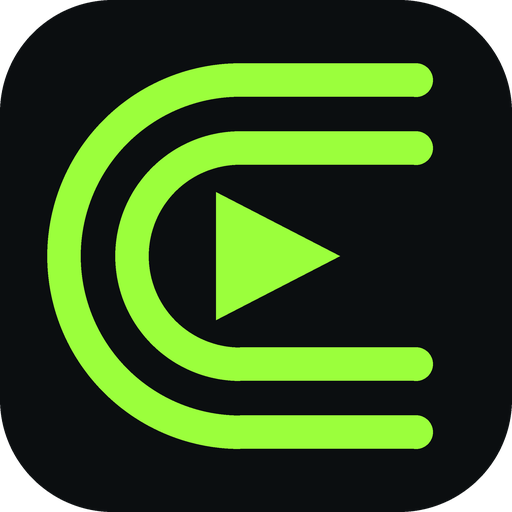
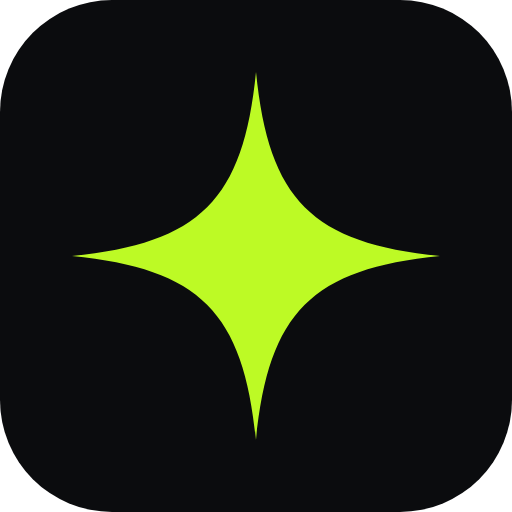
Campaignify wordmark + matching dark and light themes
The chosen wordmark (lime spark over the i, play in the g) traced to SVG and used in
the sidebar and sign-in; spark app icon and favicons; black/white palette with the
logo's lime #BDFA25; light theme from the system setting or a Theme toggle.

Claude-Session: https://claude.ai/code/session_013TZGr8RSMficF1wUo2tCvz

diff --git a/static/style.css b/static/style.css
@@ -1,33 +1,67 @@
 :root{
-  --bg:#0B0E10; --bg2:#0F1316; --panel:#12171B; --card:#171E23; --line:rgba(170,210,190,.13);
-  --ink:#F2F5F3; --muted:#9AA6A0; --dim:#6E7A74;
-  --gold:#9BFF3C; --gold2:#C6FF8F; --blue:#5BD3FF; --blue2:#1795C9;
+  /* Campaignify: black/white wordmark with a lime spark. Dark is the default theme. */
+  --accent:#BDFA25; --accent-rgb:189,250,37; --on-accent:#0B0C0E;
+  --bg:#0B0C0E; --bg2:#101114; --panel:#141519; --card:#1A1C21; --line:rgba(255,255,255,.09);
+  --ink:#F5F6F2; --muted:#A0A3A9; --dim:#6F737A;
+  --gold:var(--accent); --gold2:#D7FF7A; --link:#C9FF52; --blue:#7FD6FF; --blue-rgb:127,214,255; --blue2:#1795C9;
   --ok:#3DD68C; --bad:#FF6B6B; --amber:#F8C13E;
+  --hover:rgba(255,255,255,.05); --field:rgba(255,255,255,.035); --chipbg:rgba(255,255,255,.03);
+  --side-bg:linear-gradient(180deg,#101114,#0B0C0E);
+  --panel-bg:linear-gradient(180deg,rgba(26,28,33,.85),rgba(20,21,25,.85));
+  --thumb-bg:#121317; --btn2:#1D1F24; --btn2-hover:#262930;
+  --glow:radial-gradient(1100px 560px at 75% -12%,rgba(var(--accent-rgb),.10),transparent 60%);
+  --shadow:0 18px 40px -18px rgba(0,0,0,.8);
   --r:16px; --display:"Space Grotesk",system-ui,sans-serif; --body:"Inter",system-ui,sans-serif;
+  color-scheme:dark;
+}
+:root[data-theme=light]{
+  --bg:#F6F7F4; --bg2:#FFFFFF; --panel:#FFFFFF; --card:#FFFFFF; --line:rgba(11,12,14,.10);
+  --ink:#0B0C0E; --muted:#585C63; --dim:#80848B;
+  --gold2:#3F6B00; --link:#3F6B00; --blue:#0F7FB0; --blue-rgb:15,127,176;
+  --hover:rgba(11,12,14,.05); --field:#FFFFFF; --chipbg:#FFFFFF;
+  --side-bg:#FFFFFF;
+  --panel-bg:#FFFFFF;
+  --thumb-bg:#E9EBE6; --btn2:#EEF0EB; --btn2-hover:#E3E6DF;
+  --glow:radial-gradient(1100px 560px at 75% -12%,rgba(var(--accent-rgb),.22),transparent 60%);
+  --shadow:0 16px 36px -20px rgba(11,12,14,.35);
+  color-scheme:light;
+}
+@media (prefers-color-scheme: light){
+  :root:not([data-theme=dark]){
+    --bg:#F6F7F4; --bg2:#FFFFFF; --panel:#FFFFFF; --card:#FFFFFF; --line:rgba(11,12,14,.10);
+    --ink:#0B0C0E; --muted:#585C63; --dim:#80848B;
+    --gold2:#3F6B00; --link:#3F6B00; --blue:#0F7FB0; --blue-rgb:15,127,176;
+    --hover:rgba(11,12,14,.05); --field:#FFFFFF; --chipbg:#FFFFFF;
+    --side-bg:#FFFFFF; --panel-bg:#FFFFFF;
+    --thumb-bg:#E9EBE6; --btn2:#EEF0EB; --btn2-hover:#E3E6DF;
+    --glow:radial-gradient(1100px 560px at 75% -12%,rgba(var(--accent-rgb),.22),transparent 60%);
+    --shadow:0 16px 36px -20px rgba(11,12,14,.35);
+    color-scheme:light;
+  }
 }
 *{box-sizing:border-box}
 html,body{margin:0;background:var(--bg);color:var(--ink);font:15px/1.5 var(--body);-webkit-font-smoothing:antialiased}
-body{background:radial-gradient(1200px 600px at 70% -10%,rgba(23,149,201,.18),transparent 60%),radial-gradient(900px 500px at -10% 110%,rgba(155,255,60,.06),transparent 60%),var(--bg);min-height:100vh}
-a{color:var(--blue)}
+body{background:var(--glow),var(--bg);min-height:100vh}
+a{color:var(--link)}
 h1,h2,h3{font-family:var(--display);letter-spacing:-.02em;margin:0 0 .35em;font-weight:700}
 h1{font-size:44px;line-height:1.05} h2{font-size:22px} h3{font-size:16px}
-.gold{color:var(--gold)} .muted{color:var(--muted)} .dim{color:var(--dim)} .small{font-size:13px}
-.eyebrow{font:600 12px var(--body);letter-spacing:.14em;text-transform:uppercase;color:var(--blue);margin:0 0 10px}
+.gold{color:var(--gold2)} .muted{color:var(--muted)} .dim{color:var(--dim)} .small{font-size:13px}
+.eyebrow{font:600 12px var(--body);letter-spacing:.14em;text-transform:uppercase;color:var(--gold2);margin:0 0 10px}
 
 /* shell */
 .shell{display:grid;grid-template-columns:232px 1fr;min-height:100vh}
-.side{position:sticky;top:0;height:100vh;display:flex;flex-direction:column;gap:6px;padding:22px 14px;border-right:1px solid var(--line);background:linear-gradient(180deg,rgba(15,19,22,.9),rgba(11,14,16,.9))}
+.side{position:sticky;top:0;height:100vh;display:flex;flex-direction:column;gap:6px;padding:22px 14px;border-right:1px solid var(--line);background:var(--side-bg)}
 .logo{display:flex;align-items:center;gap:12px;color:var(--ink);text-decoration:none;padding:4px 10px 22px}
 .logo img{width:38px;height:38px}
 .logo b{display:block;font:700 19px var(--display)} .logo span{display:block;font-size:10px;letter-spacing:.14em;text-transform:uppercase;color:var(--muted)}
 .side a.nav{display:flex;align-items:center;gap:12px;padding:10px 14px;border-radius:12px;color:var(--muted);text-decoration:none;font-weight:600}
 .side a.nav svg{width:18px;height:18px;flex:none}
-.side a.nav:hover{color:var(--ink);background:rgba(255,255,255,.04)}
-.side a.nav.on{color:var(--ink);background:linear-gradient(90deg,rgba(91,211,255,.18),rgba(91,211,255,.06));box-shadow:inset 0 0 0 1px rgba(91,211,255,.25)}
-.side a.nav.on svg{color:var(--gold)}
+.side a.nav:hover{color:var(--ink);background:var(--hover)}
+.side a.nav.on{color:var(--ink);background:rgba(var(--accent-rgb),.12);box-shadow:inset 0 0 0 1px rgba(var(--accent-rgb),.35)}
+.side a.nav.on svg{color:var(--gold2)}
 .side .grow{flex:1}
-.pill{display:flex;align-items:center;gap:10px;border:1px solid rgba(155,255,60,.5);color:var(--gold2);border-radius:999px;padding:9px 14px;font-weight:700;text-decoration:none;background:rgba(155,255,60,.06)}
-.pill i{width:18px;height:18px;border-radius:50%;background:var(--gold);display:inline-block;box-shadow:inset 0 0 0 4px #5a9d1c}
+.pill{display:flex;align-items:center;gap:10px;border:1px solid rgba(var(--accent-rgb),.55);color:var(--gold2);border-radius:999px;padding:9px 14px;font-weight:700;text-decoration:none;background:rgba(var(--accent-rgb),.08)}
+.pill i{width:18px;height:18px;border-radius:50%;background:var(--gold);display:inline-block;box-shadow:inset 0 0 0 4px rgba(0,0,0,.18)}
 .side .tag{margin:14px 10px 0;font:600 11px var(--body);letter-spacing:.14em;color:var(--dim)}
 .side form{margin:0}
 .side .linkbtn{background:none;border:0;color:var(--dim);cursor:pointer;font:600 13px var(--body);padding:8px 14px;text-align:left}
@@ -39,31 +73,31 @@ h1{font-size:44px;line-height:1.05} h2{font-size:22px} h3{font-size:16px}
 @media (max-width:760px){.shell{grid-template-columns:1fr}.side{position:static;height:auto;flex-direction:row;flex-wrap:wrap;align-items:center;padding:12px}.side .grow,.side .tag,.logo span{display:none}.logo{padding:0 8px 0 0}.side a.nav{padding:8px 10px}.side a.nav span{display:none}.page{padding:20px 16px}h1{font-size:32px}}
 
 /* controls */
-.btn{display:inline-flex;align-items:center;justify-content:center;gap:8px;border:0;border-radius:12px;padding:12px 20px;font:700 14px var(--body);cursor:pointer;text-decoration:none;color:#0B0E10;background:linear-gradient(180deg,var(--gold2),var(--gold));box-shadow:0 8px 24px -10px rgba(155,255,60,.7)}
+.btn{display:inline-flex;align-items:center;justify-content:center;gap:8px;border:0;border-radius:12px;padding:12px 20px;font:700 14px var(--body);cursor:pointer;text-decoration:none;color:var(--on-accent);background:var(--accent);box-shadow:0 8px 24px -12px rgba(var(--accent-rgb),.8)}
 .btn:hover{filter:brightness(1.05)}
-.btn.dark{background:#1C2429;color:var(--ink);box-shadow:none;border:1px solid var(--line)}
-.btn.dark:hover{background:#253037}
+.btn.dark{background:var(--btn2);color:var(--ink);box-shadow:none;border:1px solid var(--line)}
+.btn.dark:hover{background:var(--btn2-hover)}
 .btn.sm{padding:8px 14px;font-size:13px;border-radius:10px}
 .btn svg{width:16px;height:16px}
 .search{display:flex;gap:14px;margin:22px 0 26px}
-.search .field{flex:1;display:flex;align-items:center;gap:10px;background:rgba(23,30,35,.8);border:1px solid var(--line);border-radius:12px;padding:0 14px}
+.search .field{flex:1;display:flex;align-items:center;gap:10px;background:var(--field);border:1px solid var(--line);border-radius:12px;padding:0 14px}
 .search .field svg{width:18px;height:18px;color:var(--muted)}
 .search input{flex:1;background:none;border:0;color:var(--ink);font:inherit;padding:13px 0;outline:none}
 label{display:block;font-weight:600;font-size:13px;margin:16px 0 8px;color:var(--muted)}
-input[type=text],input[type=email],input[type=password],input[type=number],textarea,select{width:100%;padding:12px 14px;border:1px solid var(--line);border-radius:12px;font:inherit;background:rgba(11,14,16,.6);color:var(--ink)}
+input[type=text],input[type=email],input[type=password],input[type=number],textarea,select{width:100%;padding:12px 14px;border:1px solid var(--line);border-radius:12px;font:inherit;background:var(--field);color:var(--ink)}
 textarea{min-height:130px;resize:vertical;line-height:1.5}
-input:focus,textarea:focus,select:focus{outline:2px solid var(--blue);outline-offset:-1px}
+input:focus,textarea:focus,select:focus{outline:2px solid var(--accent);outline-offset:-1px}
 input[type=file]{color:var(--muted)}
-.flash{background:rgba(155,255,60,.1);border:1px solid rgba(155,255,60,.35);border-radius:12px;padding:12px 16px;margin-bottom:14px;color:var(--gold2)}
-.panel{background:linear-gradient(180deg,rgba(23,30,35,.8),rgba(18,23,27,.8));border:1px solid var(--line);border-radius:20px;padding:22px}
+.flash{background:rgba(var(--accent-rgb),.12);border:1px solid rgba(var(--accent-rgb),.45);border-radius:12px;padding:12px 16px;margin-bottom:14px;color:var(--gold2)}
+.panel{background:var(--panel-bg);border:1px solid var(--line);border-radius:20px;padding:22px}
 
 /* template cards */
 .tgrid{display:grid;grid-template-columns:repeat(auto-fill,minmax(178px,1fr));gap:20px}
 .tcard{text-decoration:none;color:var(--ink);display:block}
-.thumb{position:relative;aspect-ratio:4/5;border-radius:14px;overflow:hidden;background:#10161a;border:1px solid var(--line);transition:transform .2s,box-shadow .2s}
+.thumb{position:relative;aspect-ratio:4/5;border-radius:14px;overflow:hidden;background:var(--thumb-bg);border:1px solid var(--line);transition:transform .2s,box-shadow .2s}
 .thumb.tall{aspect-ratio:9/16}
 .thumb video,.thumb img{width:100%;height:100%;object-fit:cover;display:block}
-.tcard:hover .thumb{transform:translateY(-3px);box-shadow:0 18px 40px -18px rgba(0,0,0,.8),0 0 0 1px rgba(155,255,60,.45)}
+.tcard:hover .thumb{transform:translateY(-3px);box-shadow:var(--shadow),0 0 0 1px rgba(var(--accent-rgb),.6)}
 .play{position:absolute;top:10px;left:10px;width:28px;height:28px;border-radius:50%;background:rgba(11,14,16,.65);backdrop-filter:blur(6px);display:grid;place-items:center}
 .play svg{width:12px;height:12px;fill:#fff;margin-left:2px}
 .dur{position:absolute;top:10px;right:10px;font:700 11px var(--body);background:rgba(11,14,16,.65);backdrop-filter:blur(6px);border-radius:7px;padding:3px 7px}
@@ -81,7 +115,7 @@ input[type=file]{color:var(--muted)}
 .ritem .thumb{aspect-ratio:9/16;border-radius:10px}
 .ritem b{display:block;font-weight:600;margin-bottom:6px}
 .status{display:inline-flex;align-items:center;gap:6px;font:700 12px var(--body);border-radius:999px;padding:4px 10px;background:rgba(61,214,140,.12);color:var(--ok)}
-.status.running,.status.pending{background:rgba(91,211,255,.12);color:var(--blue)}
+.status.running,.status.pending{background:rgba(var(--blue-rgb),.12);color:var(--blue)}
 .status.failed{background:rgba(255,107,107,.12);color:var(--bad)}
 .status .dot{width:7px;height:7px;border-radius:50%;background:currentColor}
 .status.running .dot,.status.pending .dot{animation:pulse 1.2s infinite}
@@ -93,16 +127,16 @@ input[type=file]{color:var(--muted)}
 @media (max-width:1180px){.create{grid-template-columns:1fr}}
 .preview{position:sticky;top:24px}
 .photos{display:grid;grid-template-columns:repeat(auto-fill,minmax(88px,1fr));gap:10px}
-.photo{position:relative;border-radius:12px;overflow:hidden;aspect-ratio:1;background:#10161a;cursor:pointer;border:2px solid transparent;margin:0}
+.photo{position:relative;border-radius:12px;overflow:hidden;aspect-ratio:1;background:var(--thumb-bg);cursor:pointer;border:2px solid transparent;margin:0}
 .photo img{width:100%;height:100%;object-fit:cover;display:block}
 .photo input{position:absolute;opacity:0}
-.photo:has(input:checked){border-color:var(--gold);box-shadow:0 0 0 4px rgba(155,255,60,.2)}
+.photo:has(input:checked){border-color:var(--gold);box-shadow:0 0 0 4px rgba(var(--accent-rgb),.25)}
 .photo .del{position:absolute;top:6px;right:6px}
 .choices{display:flex;gap:8px;flex-wrap:wrap}
-.choice{border:1px solid var(--line);border-radius:999px;padding:8px 14px;cursor:pointer;background:rgba(11,14,16,.5);font:600 13px var(--body);color:var(--muted);margin:0}
-.choice:has(input:checked){border-color:var(--gold);color:#0B0E10;background:var(--gold)}
+.choice{border:1px solid var(--line);border-radius:999px;padding:8px 14px;cursor:pointer;background:var(--chipbg);font:600 13px var(--body);color:var(--muted);margin:0}
+.choice:has(input:checked){border-color:var(--accent);color:var(--on-accent);background:var(--accent)}
 .choice input{display:none}
-.price{font:700 40px var(--display);color:var(--gold);line-height:1}
+.price{font:700 40px var(--display);color:var(--gold2);line-height:1}
 .rules{padding-left:18px;margin:8px 0 0;color:var(--muted);font-size:13px}
 .rules li{margin:4px 0}
 hr.line{border:0;border-top:1px solid var(--line);margin:18px 0}
@@ -110,11 +144,11 @@ hr.line{border:0;border-top:1px solid var(--line);margin:18px 0}
 /* library */
 .lgrid{display:grid;grid-template-columns:repeat(auto-fill,minmax(220px,1fr));gap:22px}
 .litem .thumb{aspect-ratio:9/16}
-.litem.hl .thumb{box-shadow:0 0 0 2px var(--gold)}
+.litem.hl .thumb{box-shadow:0 0 0 2px var(--accent)}
 .litem .meta{display:flex;justify-content:space-between;align-items:center;margin-top:10px;gap:8px}
 .litem .brief{font-size:12.5px;color:var(--muted);margin:6px 0 0}
-.wait{position:absolute;inset:0;display:grid;place-items:center;text-align:center;color:var(--muted);font-size:13px;padding:16px;background:radial-gradient(circle at 50% 40%,rgba(91,211,255,.18),transparent 60%)}
-.spinner{width:34px;height:34px;border-radius:50%;border:3px solid rgba(91,211,255,.25);border-top-color:var(--blue);animation:spin 1s linear infinite;margin:0 auto 10px}
+.wait{position:absolute;inset:0;display:grid;place-items:center;text-align:center;color:var(--muted);font-size:13px;padding:16px;background:radial-gradient(circle at 50% 40%,rgba(var(--blue-rgb),.16),transparent 60%)}
+.spinner{width:34px;height:34px;border-radius:50%;border:3px solid rgba(var(--blue-rgb),.25);border-top-color:var(--blue);animation:spin 1s linear infinite;margin:0 auto 10px}
 @keyframes spin{to{transform:rotate(360deg)}}
 
 /* tables (admin) */
@@ -133,3 +167,16 @@ code{font-size:12px;color:var(--gold2);word-break:break-all}
 .ritem .wait{font-size:10.5px;padding:6px}
 .ritem .spinner{width:22px;height:22px;border-width:2px;margin-bottom:6px}
 @media (max-width:760px){.tgrid{grid-template-columns:repeat(2,1fr);gap:12px}.lgrid{grid-template-columns:repeat(2,1fr);gap:12px}.search{flex-wrap:wrap}.search .btn{width:100%}}
+
+/* wordmark + theme toggle */
+.logo{flex-direction:column;align-items:flex-start;gap:6px}
+.logo .wm{display:block;width:150px;height:auto;color:var(--ink)}
+.logo .wm path:not(.wm-text){fill:var(--accent)}
+.logo span{display:block;font-size:10px;letter-spacing:.14em;text-transform:uppercase;color:var(--muted)}
+.auth .logo .wm{width:190px}
+.theme{display:flex;align-items:center;gap:8px;background:none;border:1px solid var(--line);color:var(--muted);border-radius:999px;padding:7px 12px;font:600 12px var(--body);cursor:pointer;margin:6px 0 0}
+.theme:hover{color:var(--ink);border-color:rgba(var(--accent-rgb),.5)}
+.theme svg{width:15px;height:15px}
+.auth .theme{position:fixed;top:16px;right:16px;background:var(--panel)}
+:root[data-theme=light] .play svg,:root[data-theme=light] .dur{color:#fff}
+.dur{color:#fff}

diff --git a/web/base.html b/web/base.html
@@ -1,13 +1,13 @@
 <!doctype html>
 <html lang="en">
 <head>
-<meta charset="utf-8"><meta name="viewport" content="width=device-width,initial-scale=1">
+<meta charset="utf-8"><script>(function(){try{var t=localStorage.getItem('theme');if(t==='light'||t==='dark')document.documentElement.setAttribute('data-theme',t);}catch(e){}})();</script><meta name="viewport" content="width=device-width,initial-scale=1">
 <title>{% block title %}Campaignify{% endblock %}</title>
 <link rel="icon" href="{{ url_for('static', filename='img/campaignify-icon-128.png') }}">
 <link rel="preconnect" href="https://fonts.googleapis.com"><link rel="preconnect" href="https://fonts.gstatic.com" crossorigin>
 <link href="https://fonts.googleapis.com/css2?family=Inter:wght@400;500;600;700&family=Space+Grotesk:wght@500;600;700&display=swap" rel="stylesheet">
 <link rel="apple-touch-icon" href="{{ url_for('static', filename='img/campaignify-icon-512.png') }}">
-<meta name="theme-color" content="#0B0E10">
+<meta name="theme-color" content="#0B0C0E">
 <meta property="og:site_name" content="Campaignify">
 <link rel="stylesheet" href="{{ url_for('static', filename='style.css') }}">
 </head>
@@ -15,7 +15,7 @@
 {% block shell %}
 <div class="shell">
   <aside class="side">
-    <a class="logo" href="{{ url_for('studio') }}"><img src="{{ url_for('static', filename='img/campaignify-mark.svg') }}" alt=""><div><b>Campaignify</b><span>Create your own creatives</span></div></a>
+    <a class="logo" href="{{ url_for('studio') }}" aria-label="Campaignify home">{% include "_wordmark.svg" %}<span>Create your own creatives</span></a>
     <a class="nav {{ 'on' if request.endpoint in ('studio','new') }}" href="{{ url_for('studio') }}"><svg viewBox="0 0 24 24" fill="none" stroke="currentColor" stroke-width="2" stroke-linecap="round"><path d="M12 3v4M12 17v4M3 12h4M17 12h4M6 6l2.5 2.5M15.5 15.5L18 18M6 18l2.5-2.5M15.5 8.5L18 6"/></svg><span>Create</span></a>
     <a class="nav {{ 'on' if request.endpoint=='library' }}" href="{{ url_for('library') }}"><svg viewBox="0 0 24 24" fill="none" stroke="currentColor" stroke-width="2" stroke-linejoin="round"><rect x="3" y="4" width="18" height="16" rx="3"/><path d="M10 9l5 3-5 3z" fill="currentColor"/></svg><span>Library</span></a>
     <a class="nav {{ 'on' if request.endpoint=='brand_kit' }}" href="{{ url_for('brand_kit') }}"><svg viewBox="0 0 24 24" fill="none" stroke="currentColor" stroke-width="2" stroke-linecap="round"><path d="M12 3a9 9 0 100 18c1 0 1.5-.8 1.5-1.6 0-1-.8-1.4-.8-2.4 0-1 .8-1.6 1.8-1.6H17a4 4 0 004-4c0-4.4-4-8.4-9-8.4z"/><circle cx="7.5" cy="11" r="1.2" fill="currentColor"/><circle cx="10.5" cy="7" r="1.2" fill="currentColor"/><circle cx="15" cy="7.5" r="1.2" fill="currentColor"/></svg><span>Brand kit</span></a>
@@ -23,6 +23,7 @@
     <div class="grow"></div>
     <a class="pill" href="{{ url_for('library') }}" title="Credits left"><i></i>{{ '{:,}'.format(g.ws.credits) }} credits</a>
     <form method="post" action="{{ url_for('logout') }}"><input type="hidden" name="csrf" value="{{ csrf_token() }}"><button class="linkbtn">Log out</button></form>
+    <button type="button" class="theme" data-theme-toggle aria-label="Switch light or dark theme"><svg viewBox="0 0 24 24" fill="none" stroke="currentColor" stroke-width="2" stroke-linecap="round"><path d="M21 12.8A9 9 0 1111.2 3a7 7 0 009.8 9.8z"/></svg><span>Theme</span></button>
     <div class="tag">BETTER ADS.<br>FASTER.</div>
   </aside>
   <div>
@@ -39,5 +40,6 @@ document.querySelectorAll('[data-hoverplay]').forEach(function(el){
   el.addEventListener('mouseleave', function(){ v.pause(); });
 });
 </script>
+<script>document.addEventListener('click',function(e){var b=e.target.closest('[data-theme-toggle]');if(!b)return;var r=document.documentElement,cur=r.getAttribute('data-theme')||(matchMedia('(prefers-color-scheme: light)').matches?'light':'dark'),next=cur==='light'?'dark':'light';r.setAttribute('data-theme',next);try{localStorage.setItem('theme',next);}catch(err){}});</script>
 </body>
 </html>

diff --git a/web/auth_base.html b/web/auth_base.html
@@ -1,7 +1,8 @@
 {% extends "base.html" %}
 {% block shell %}
 <div class="auth"><div class="panel">
-  <div class="logo"><img src="{{ url_for('static', filename='img/campaignify-mark.svg') }}" alt=""><div><b>Campaignify</b><span>Create your own creatives</span></div></div>
+  <div class="logo">{% include "_wordmark.svg" %}<span>Create your own creatives</span></div>
+  <button type="button" class="theme" data-theme-toggle aria-label="Switch light or dark theme"><svg viewBox="0 0 24 24" fill="none" stroke="currentColor" stroke-width="2" stroke-linecap="round"><path d="M21 12.8A9 9 0 1111.2 3a7 7 0 009.8 9.8z"/></svg><span>Theme</span></button>
   {% for m in get_flashed_messages() %}<div class="flash">{{ m }}</div>{% endfor %}
   {% block auth %}{% endblock %}
 </div></div>

diff --git a/README.md b/README.md
@@ -38,4 +38,4 @@ Crowdcut's Caddy serves campaignify.ai (studio.rectorandstull.com redirects ther
 
 ## Brand
 
-Name Campaignify, tagline "Create your own creatives". Mark: `static/img/campaignify-mark.svg` (lime #9BFF3C C of two strokes around a play triangle); app icon `static/img/campaignify-icon-512.png`. Palette lives in the `:root` variables of `static/style.css` (charcoal #0B0E10, lime #9BFF3C, cyan #5BD3FF). Env vars, the repo, the container and `/opt/rs-studios` keep their old names on purpose: renaming them would break the running deploy.
+Name Campaignify, tagline "Create your own creatives". Logo: the lowercase wordmark with a lime spark over the i and a play cut into the g, traced to SVG (`web/_wordmark.svg` inherits the text colour; `static/img/campaignify-wordmark-light.svg` is white for dark backgrounds, `-dark.svg` is black for light ones). App icon and favicon: the lime spark on a black tile (`static/img/campaignify-mark.svg`, `campaignify-icon-*.png`). Accent lime #BDFA25 (#3F6B00 for green text on light backgrounds). Dark theme by default, light theme from the system setting or the Theme button (remembered per browser). All colours are `:root` variables in `static/style.css`. Env vars, the repo, the container and `/opt/rs-studios` keep their old names on purpose: renaming them would break the running deploy.
